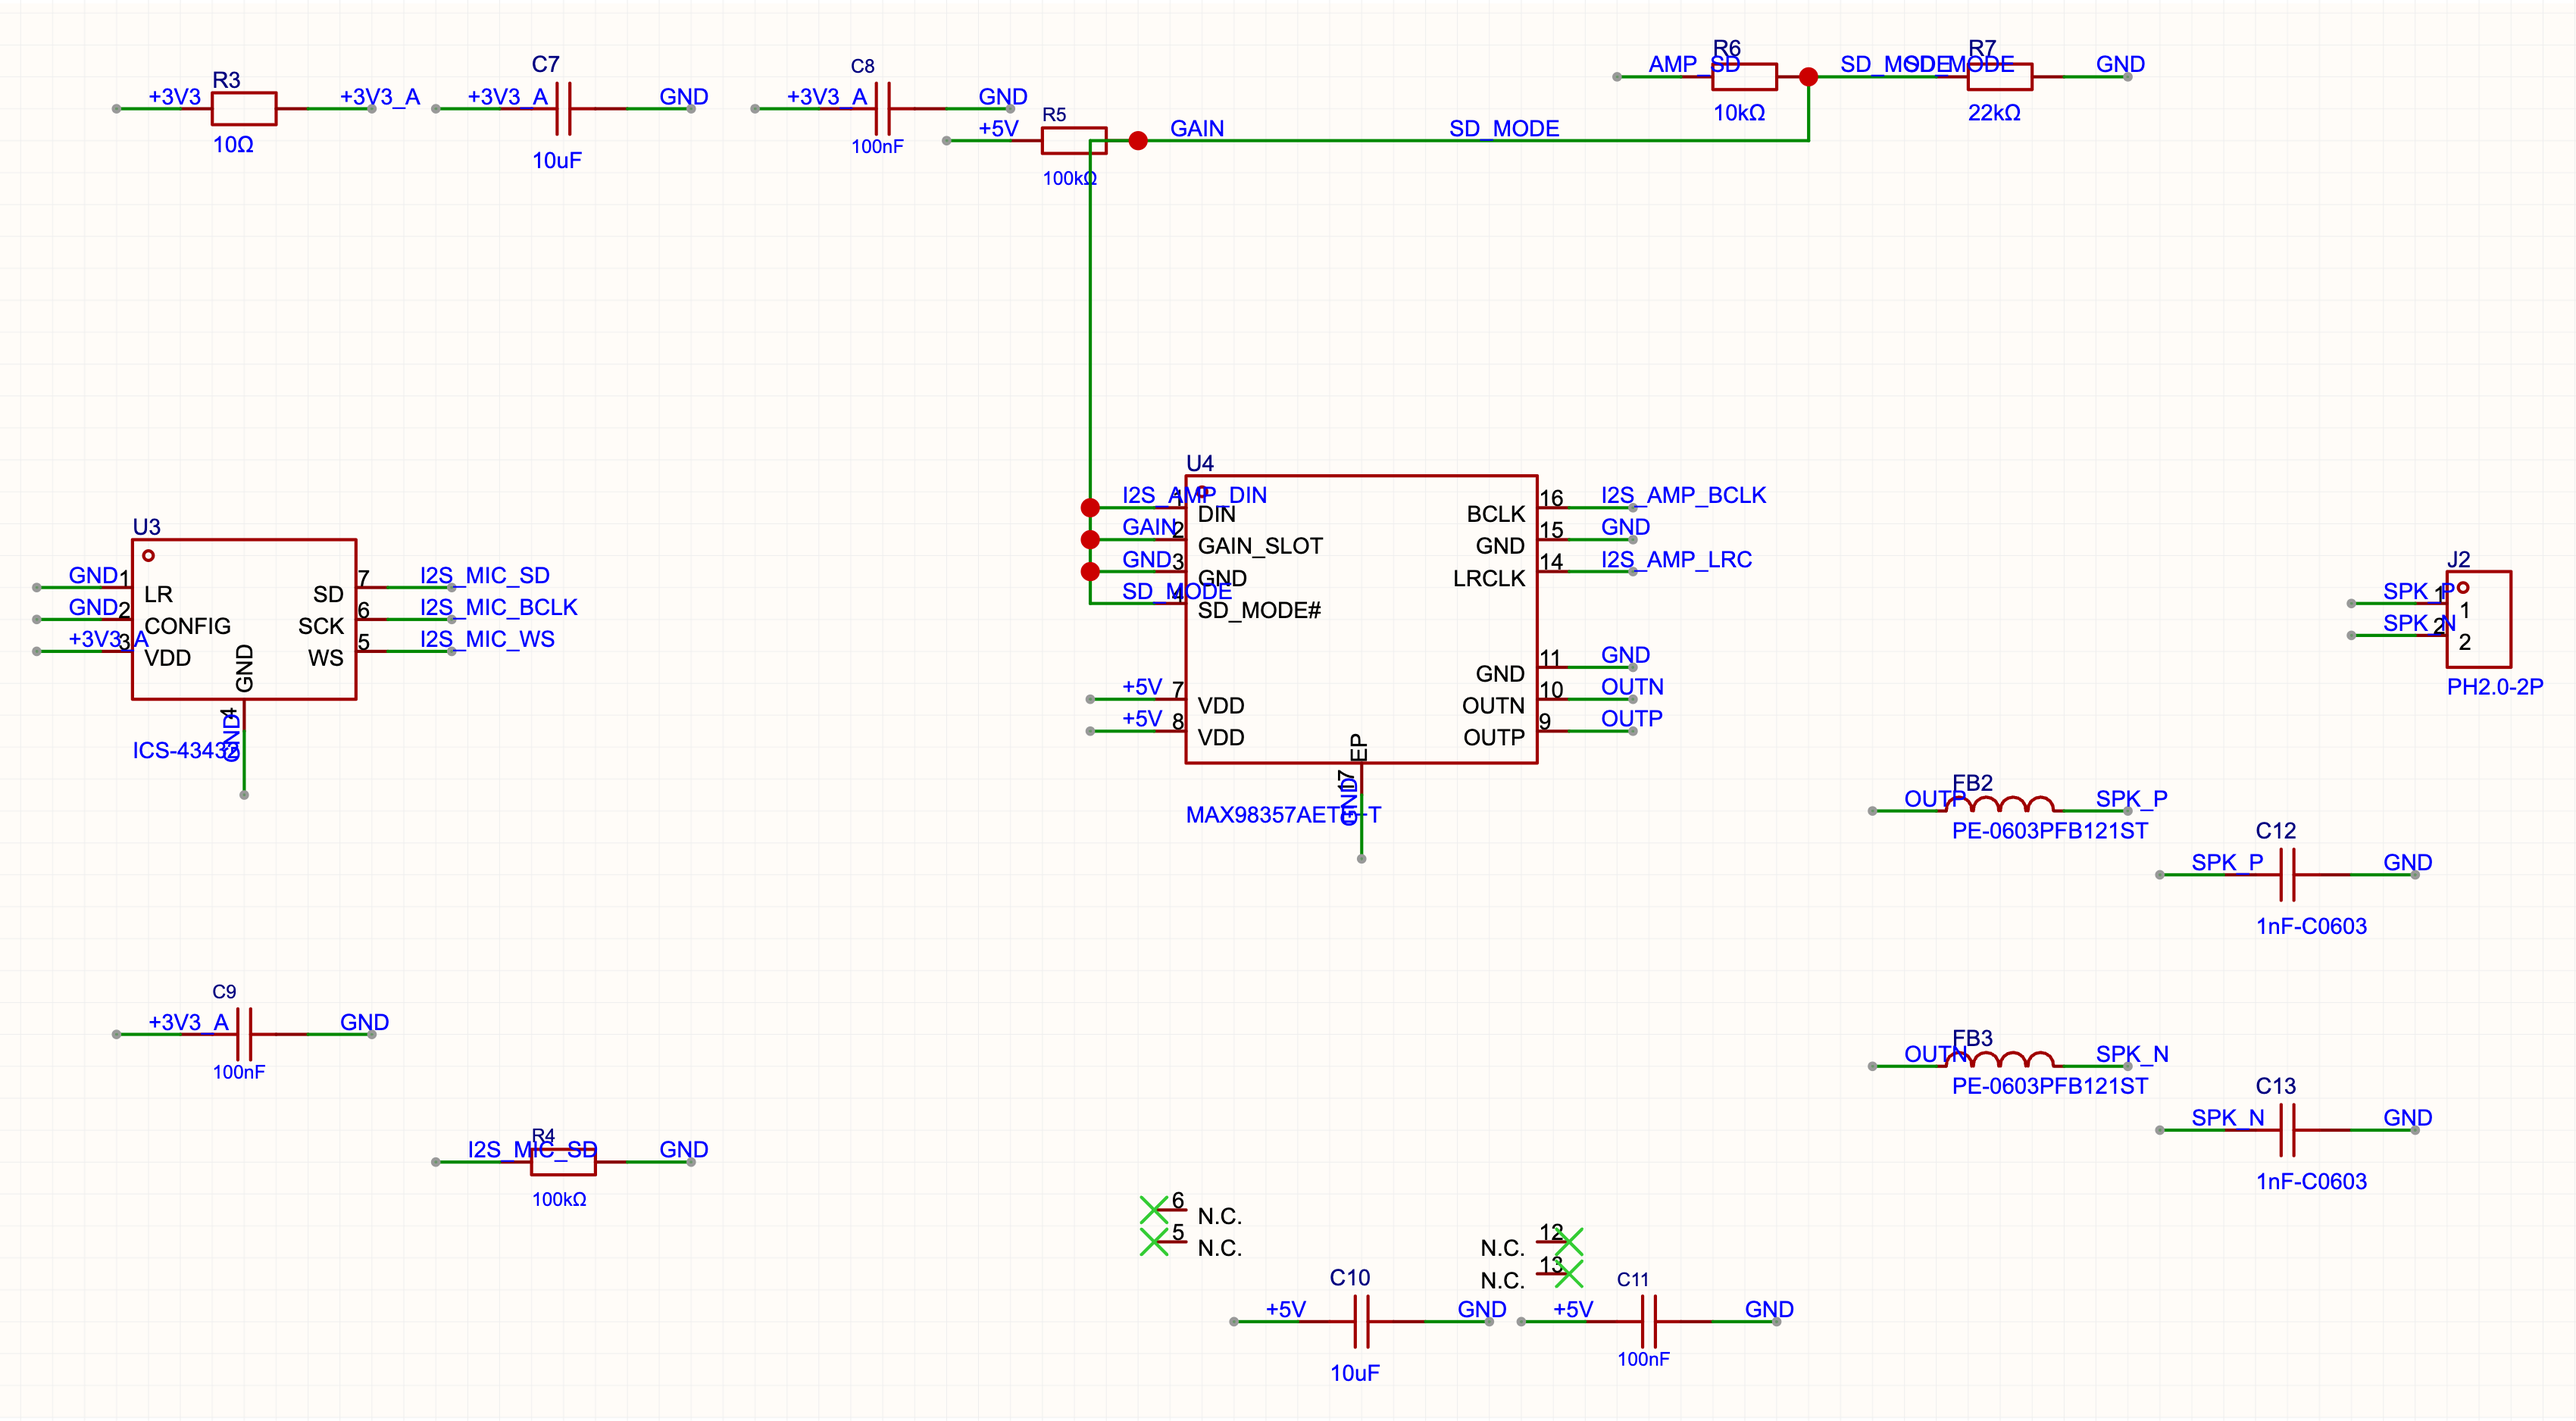
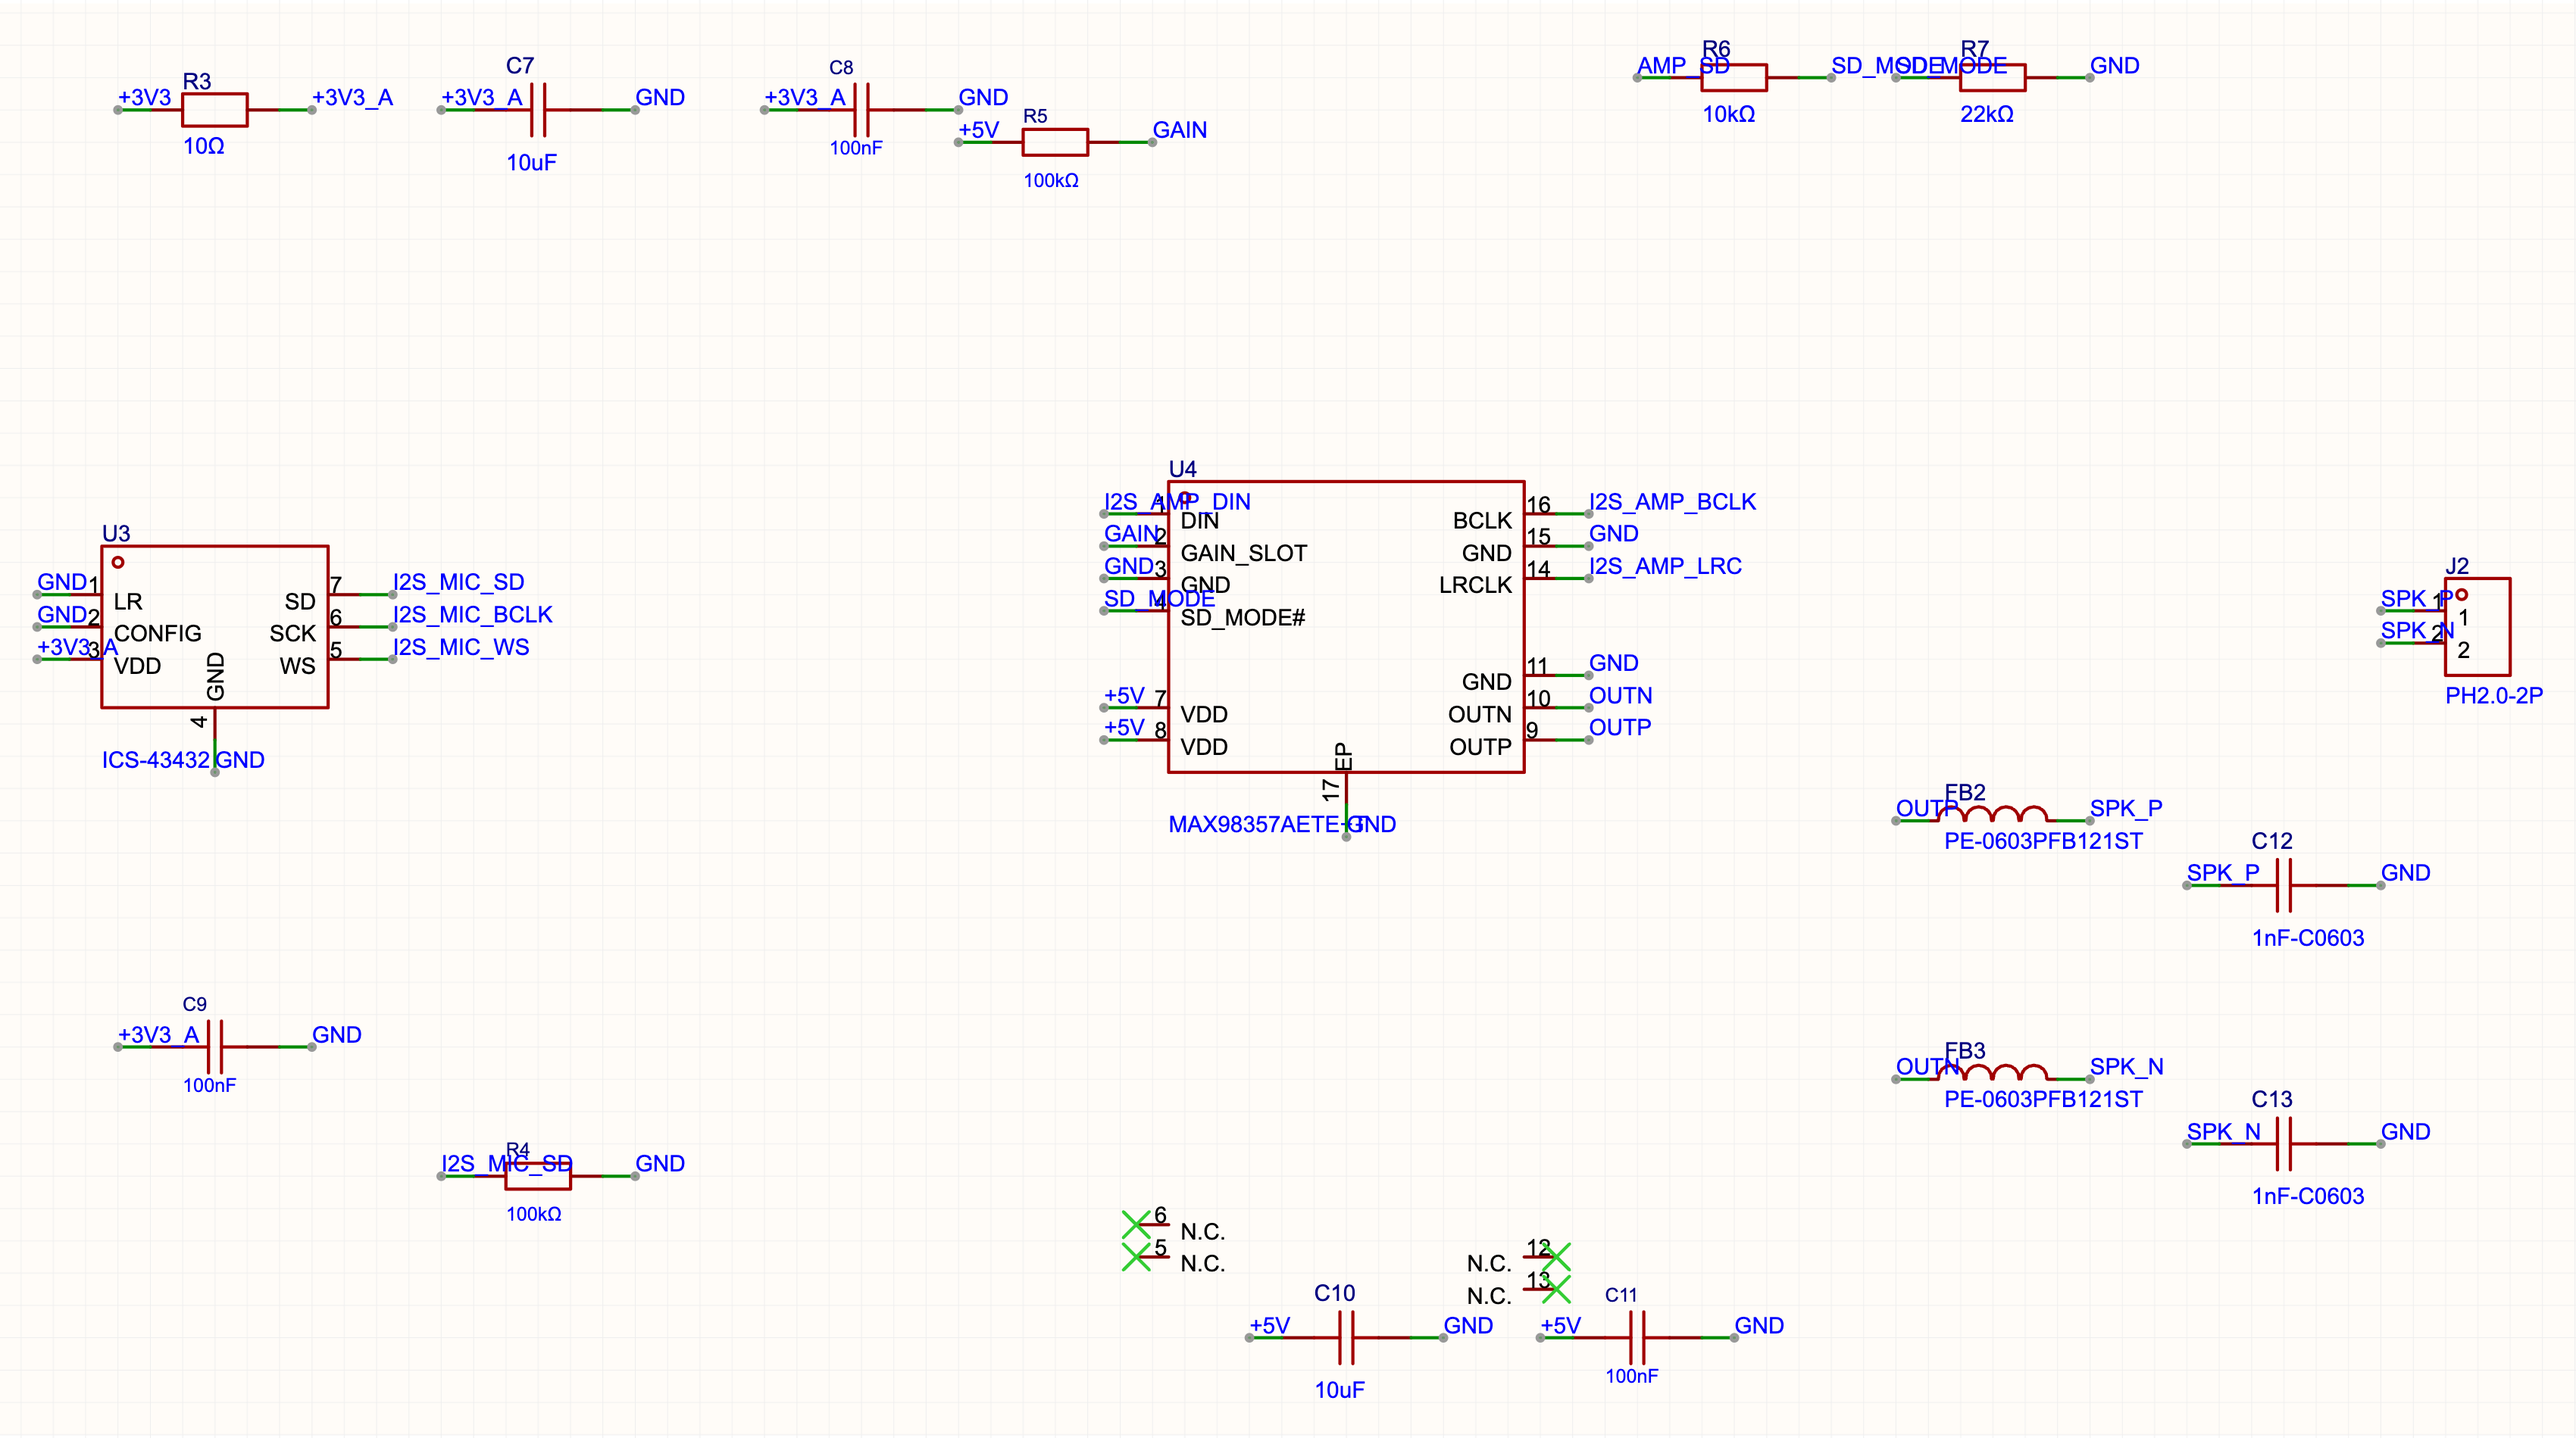
G1 步骤A: 音频页 SD_MODE 短路修复（删除贯通线，短线+网络标签，DRC 音频页 0）

diff --git a/hw/exports/RUN_LOG.md b/hw/exports/RUN_LOG.md
@@ -30,3 +30,11 @@
 - 步骤A 修音频页 SD_MODE ONENETNAME：连续 4 次尝试（重连后重画 SD_MODE 网、改名 AMP_SDMODE、改走线避让 R5/电源网络），DRC 仍报 ONENETNAME，且新走线反复与 GAIN / +5V / GND 网络合并（音频页布局过密、走线空间不足）。按「同一工具/同一问题连续多次未清除」停在步骤 A。
 - 步骤 B–E 未开始。
 - 数据手册：MAX98357A SD_MODE 内部下拉约 100kΩ（见 ds-pins 核查，Datasheet p.7/p.18）；分压重算：R7=22k ∥ 内部100k = 18.03k，V=3.3×18.03/(10+18.03)=2.12V>1.4V（若 AMP_SD=3.3V）。输出滤波磁珠+电容具体值数据手册未给明确值 → 待工程师确认。
+
+## 2026-11-18 步骤A 完成（音频页 SD_MODE 修复）
+- 人工确认根因：R5 输出贯通线经 U4 pin1-4 的竖线，把 DIN/GAIN_SLOT/GND/SD_MODE 与 GAIN(+5V 经R5) 短成一网。已删除音频页全部 46 根导线及多余连接点。
+- 改法：全音频页「短导线(10) + 网络标签」，器件之间不拉长线。DRC 音频页 = 0 条。
+- 网表(PADS)证据：GAIN={U4.2,R5.2}；SD_MODE={U4.4,R6.2,R7.1}；+5V={U4.7,U4.8,R5.1,C10.1,C11.1,FB1.2,U1.3,C1.1,C2.1}；I2S_AMP_DIN={U2.17,U4.1}；GND 含 U4.3/U4.11/U4.15/U4.17 且未与 SD_MODE 混。
+- SD_MODE 分压复算：MAX98357A SD_MODE 内部下拉约 100kΩ（Datasheet p.7/p.18）；R7=22k∥100k=18.03kΩ；V=3.3×18.03/(10+18.03)=2.12V > 1.4V。
+- 输出滤波磁珠+电容具体数值：数据手册未给明确值 → 待工程师确认。
+- FB2/FB3：输入端 OUTP(U4.9)/OUTN(U4.10)，输出端 SPK_P/SPK_N 接 J2.1/J2.2。

diff --git a/hw/exports/REVIEW_NOTES.md b/hw/exports/REVIEW_NOTES.md
@@ -9,3 +9,8 @@
 - +3V3_A = +3V3 经 R3 10Ω + C7 10µF + C8 100nF。
 - MAX98357A(C910544)：VDD→+5V 就近 C10 10µF + C11 100nF；GAIN 经 R5 100k→VDD（3dB）；SD_MODE 由 AMP_SD 经 R6 10k / R7 22k 分压→2.27V>1.4V；OUT± 经 FB2/FB3 磁珠 + C12/C13 1nF 到 J2(PH2.0-2P)。
 - **已知未完成**：SD_MODE 仍有 1 条网络重名(ONENETNAME)未合并；输出滤波数值数据手册无明确值(待确认)。
+
+## 阶段3 追加（SD_MODE 修复与复算）
+- 已消除音频页 SD_MODE 与 GAIN/+5V/GND 的短路（根因为 R5 贯通线，删除后全页改为短线+网络标签）。
+- SD_MODE 分压：R6=10k、R7=22k、MAX98357A SD_MODE 内部下拉约100kΩ(Datasheet p.7/p.18)，R7∥100k=18.03k，V=2.12V>1.4V（开）；AMP_SD=0 时 0V（关）。
+- 输出磁珠+电容具体值数据手册未给明确值 → 待工程师确认。
